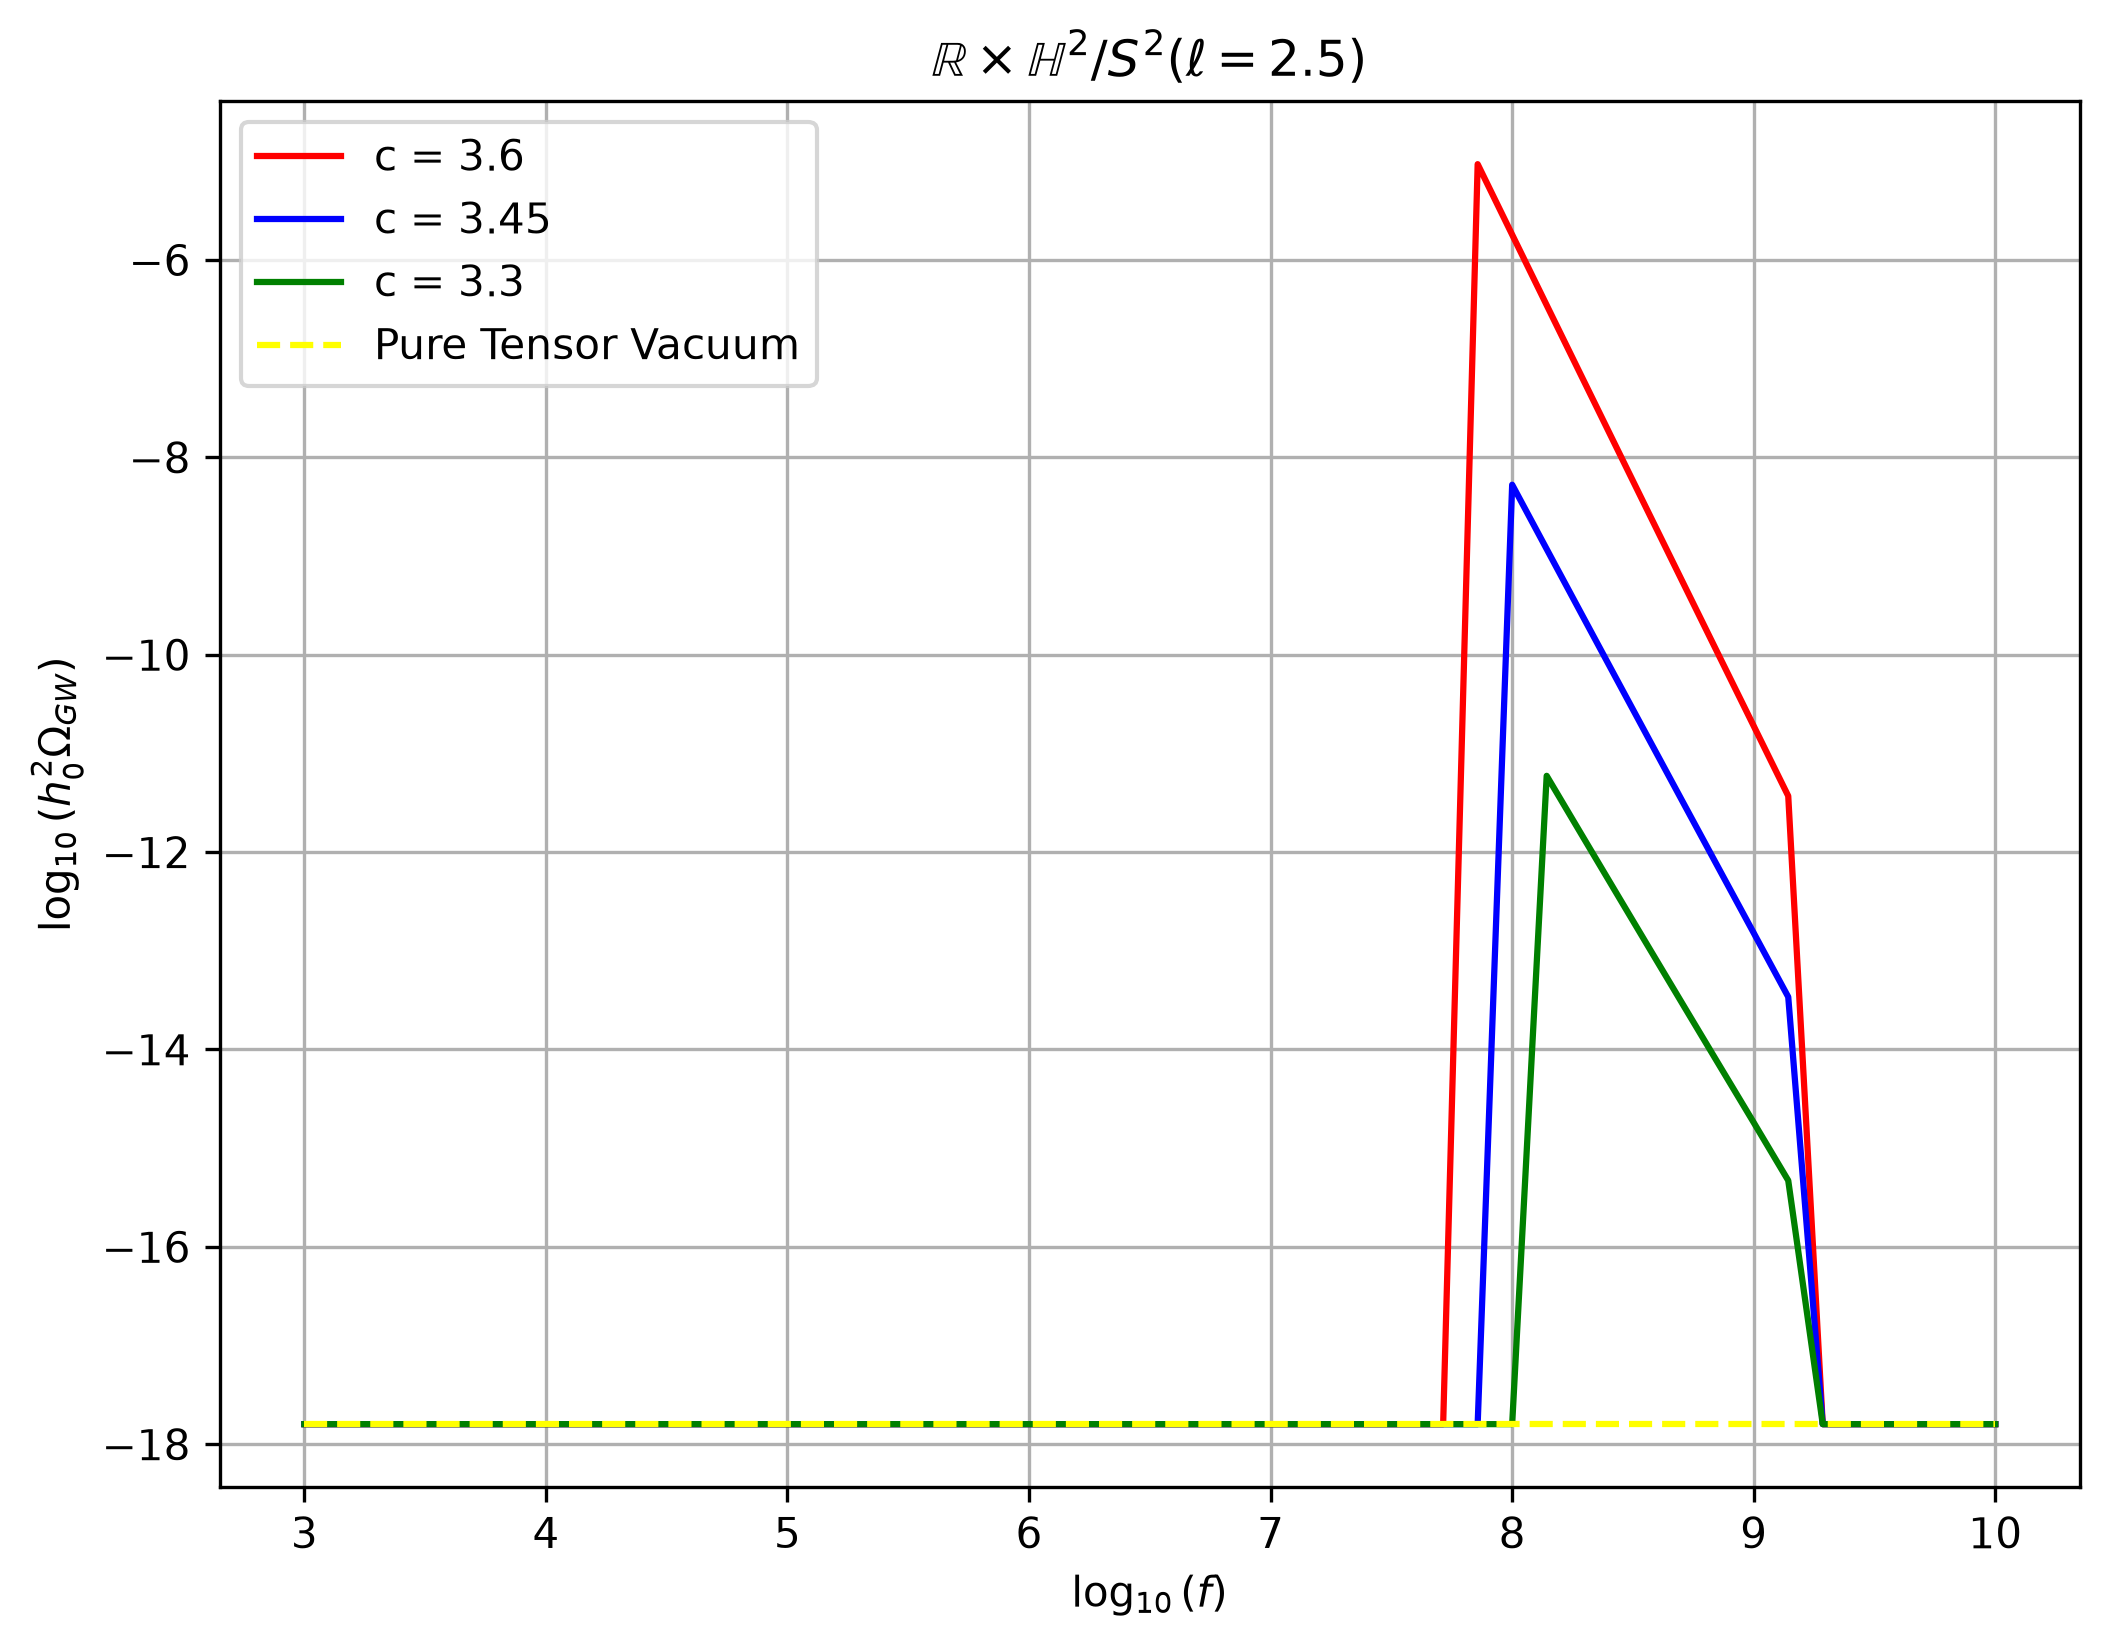
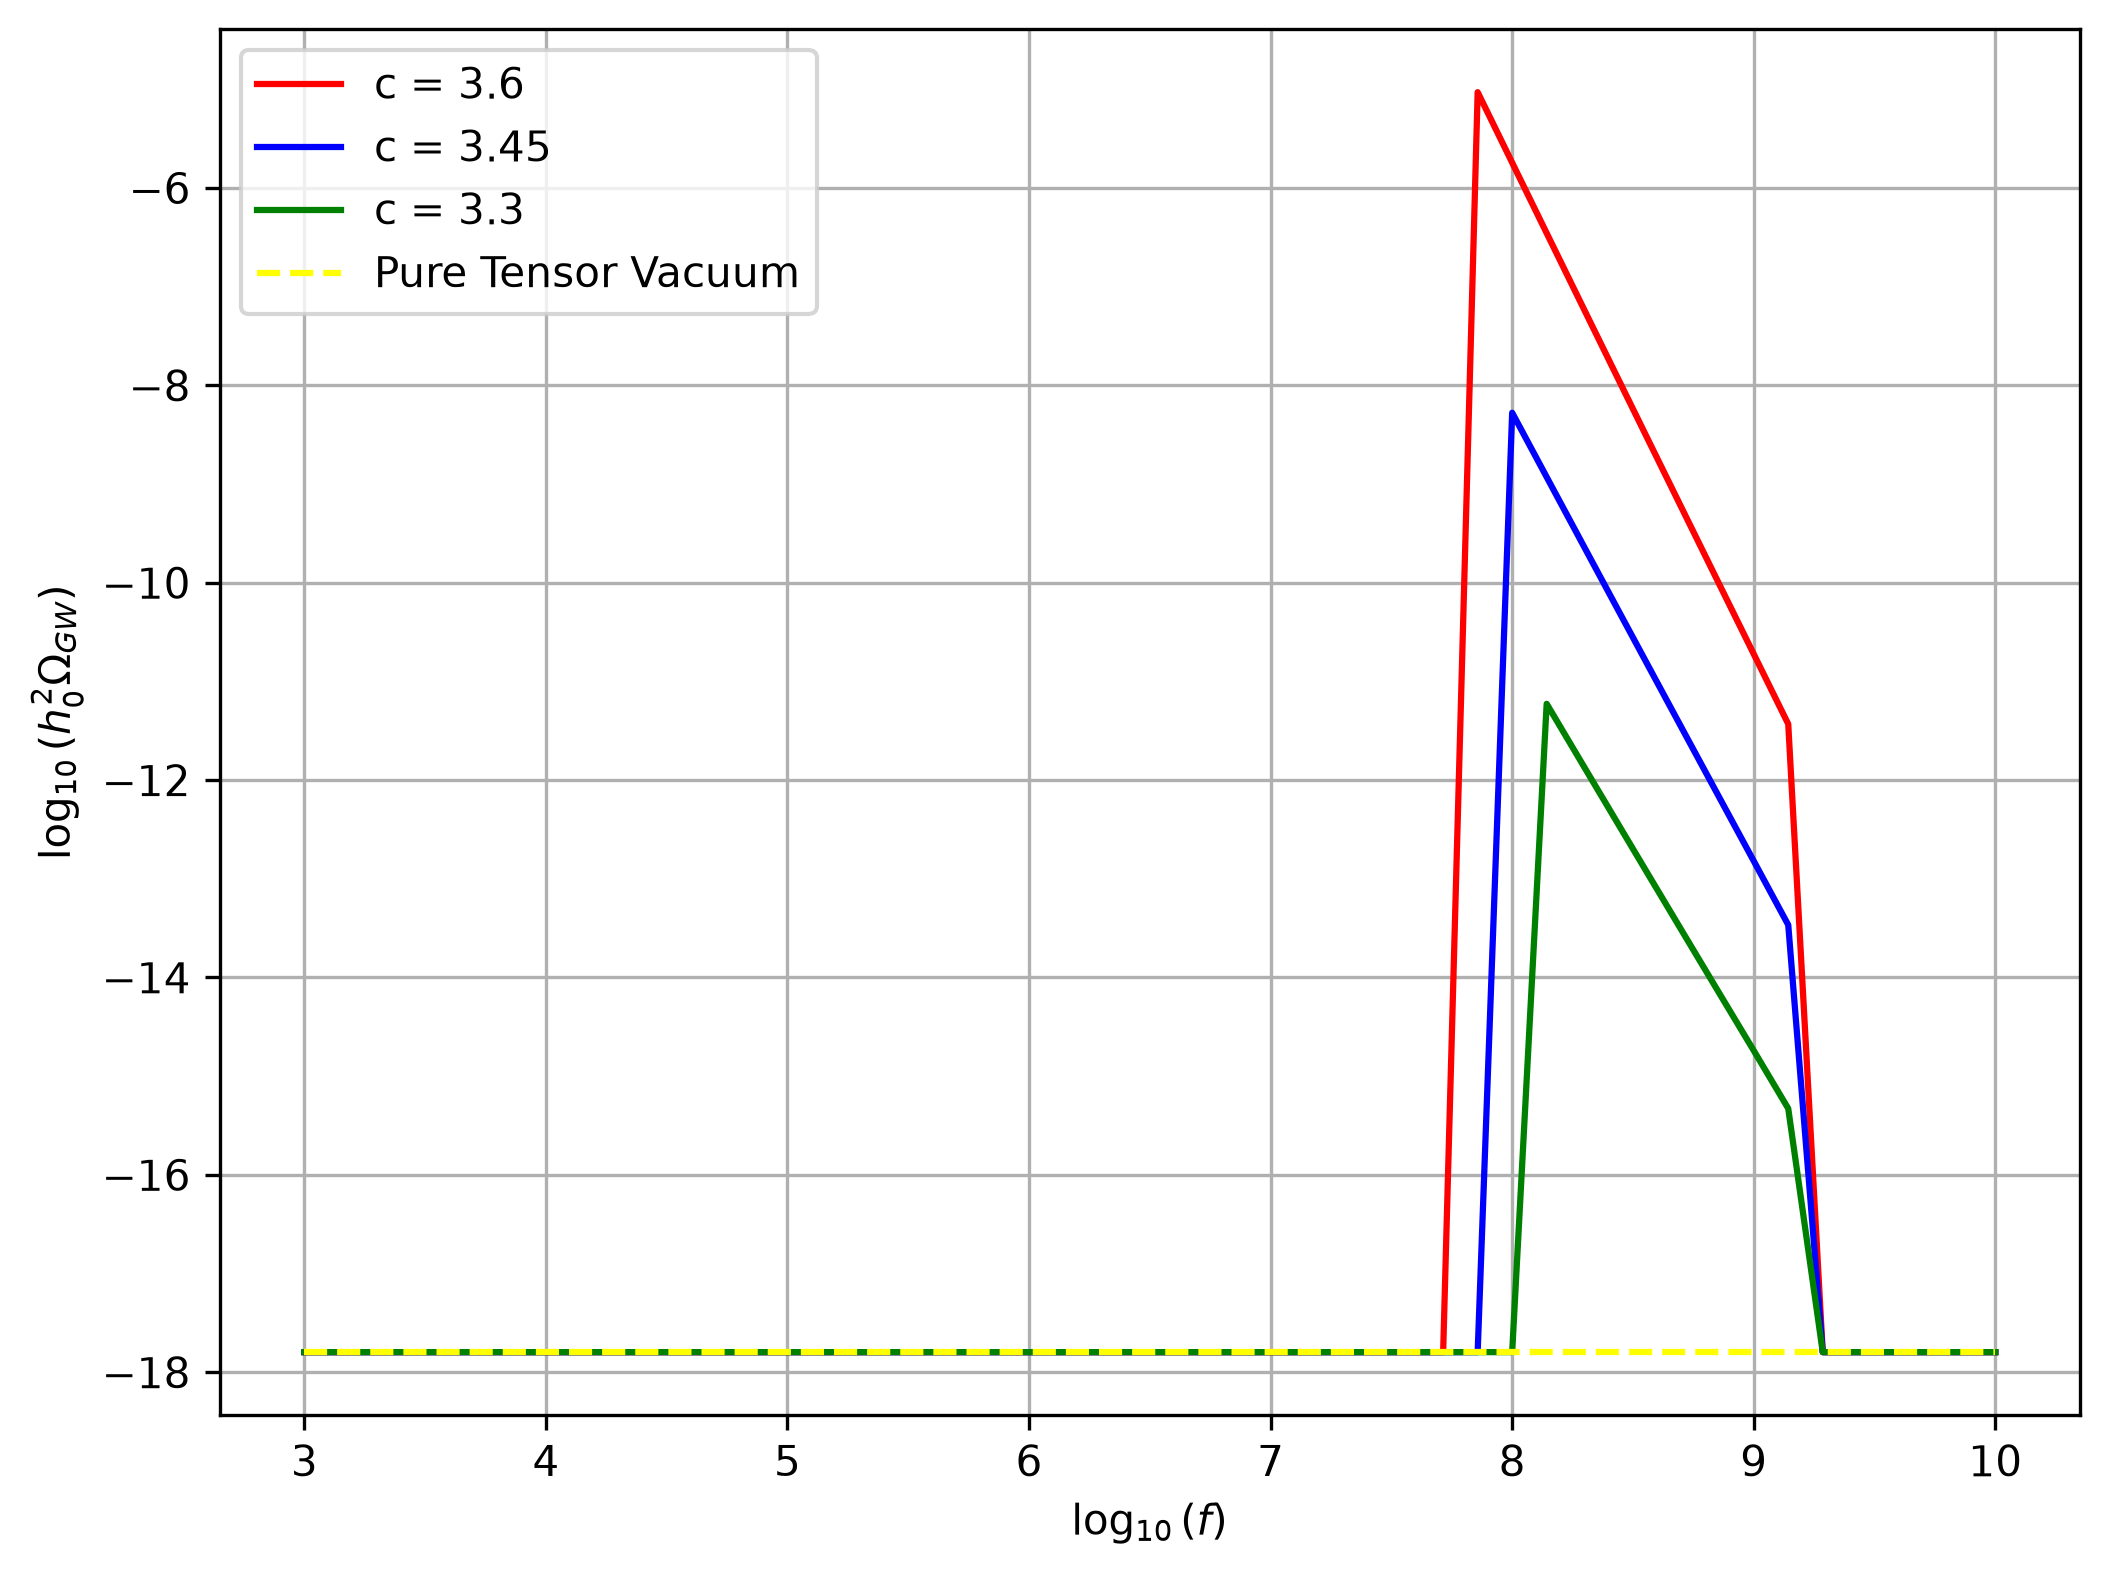
Rescaled comparative plots

diff --git a/mhz.py b/mhz.py
@@ -7,7 +7,7 @@ import warnings
 MPl = 1
 HI = (1e-5) * MPl
 L = 1e26
-l = 2.0
+l = 3.0
 j = 1j
 
 f_array = np.logspace(3, 10, 50) 
@@ -176,10 +176,12 @@ for target_model in target_models:
                  color='yellow', label='Pure Tensor Vacuum', linestyle='--')
             
         plt.ylabel(r"$\log_{10}(h_0^2 \Omega_{GW})$")
-        plt.title(r"$\mathbb{R} \times \mathbb{H}^2 / S^2 \left(\ell = 2.0 \right)$")
+        #plt.title(r"$\mathbb{R} \times \mathbb{H}^2 / S^2 \left(\ell = 2.0 \right)$")
         #plt.ylim(-20, 50)
     else:
-        plt.ylabel(r"Fractional difference $\left(\frac{\Delta \Omega_{GW}}{\Omega_{GW}}\right)$")
+        plt.ylabel(r"$\left(\Omega_\text{Model} - \Omega_{\mathbb{R} \times \mathbb{R}^2 / S^2} \right) / \Omega_{\mathbb{R} \times \mathbb{R}^2 / S^2}$")
+        plt.xlim(8, 9.5)
+        plt.ylim(0, 6.0e-16)
         
         if target_model == 'UH2':
             display_name = r"$\widetilde{U \left(\mathbb{H}^2 \right)}$"
@@ -187,7 +189,7 @@ for target_model in target_models:
             display_name = target_model
 
         #plt.title(f"Deviation of {display_name} geometry from FLRW")
-        plt.title(r"Common deviation of $\widetilde{U \left(\mathbb{H}^2 \right)}$, Nil & Solv from FLRW $\left(\ell = 2.0 \right)$")
+        #plt.title(r"Common deviation of $\widetilde{U \left(\mathbb{H}^2 \right)}$, Nil & Solv from FLRW $\left(\ell = 2.0 \right)$")
 
     k_box = 2*np.pi*f_array[0]
     A_box = 1
@@ -223,13 +225,11 @@ for target_model in target_models:
     box_text = box_text.strip()
 
     #Displays the Solv source amplitude
-    #plt.gca().text(0.05, 0.05, box_text, transform=plt.gca().transAxes, fontsize=10,
-                   #verticalalignment='bottom', horizontalalignment='left',
-                   #bbox=dict(boxstyle='round,pad=0.5', facecolor='white', edgecolor='black', alpha=0.9))
+    plt.gca().text(0.05, 0.05, box_text, transform=plt.gca().transAxes, fontsize=10,
+                   verticalalignment='bottom', horizontalalignment='left',
+                   bbox=dict(boxstyle='round,pad=0.5', facecolor='white', edgecolor='black', alpha=0.9))
 
     plt.grid(True)
     plt.legend()
     plt.savefig(f'mhz_{target_model}.png', dpi=300, bbox_inches='tight')
     plt.close()
-
-print("All plots generated and saved successfully!")

diff --git a/solv_source.py b/solv_source.py
@@ -1,3 +1,5 @@
+#This script plots the varioation of Solv geometry's source term against the parameter 'c' for each value of 'l'
+
 import matplotlib.pyplot as plt
 
 c_vals = [3.3, 3.45, 3.6]

diff --git a/EM_tensor_multiplication.py b/EM_tensor_multiplication.py
@@ -1,3 +1,5 @@
+#A simple script to calculate EM field tensors and F^2 term used by me in the calculations
+
 import sympy as sp
 
 t, x, y, z = sp.symbols('t x y z')
